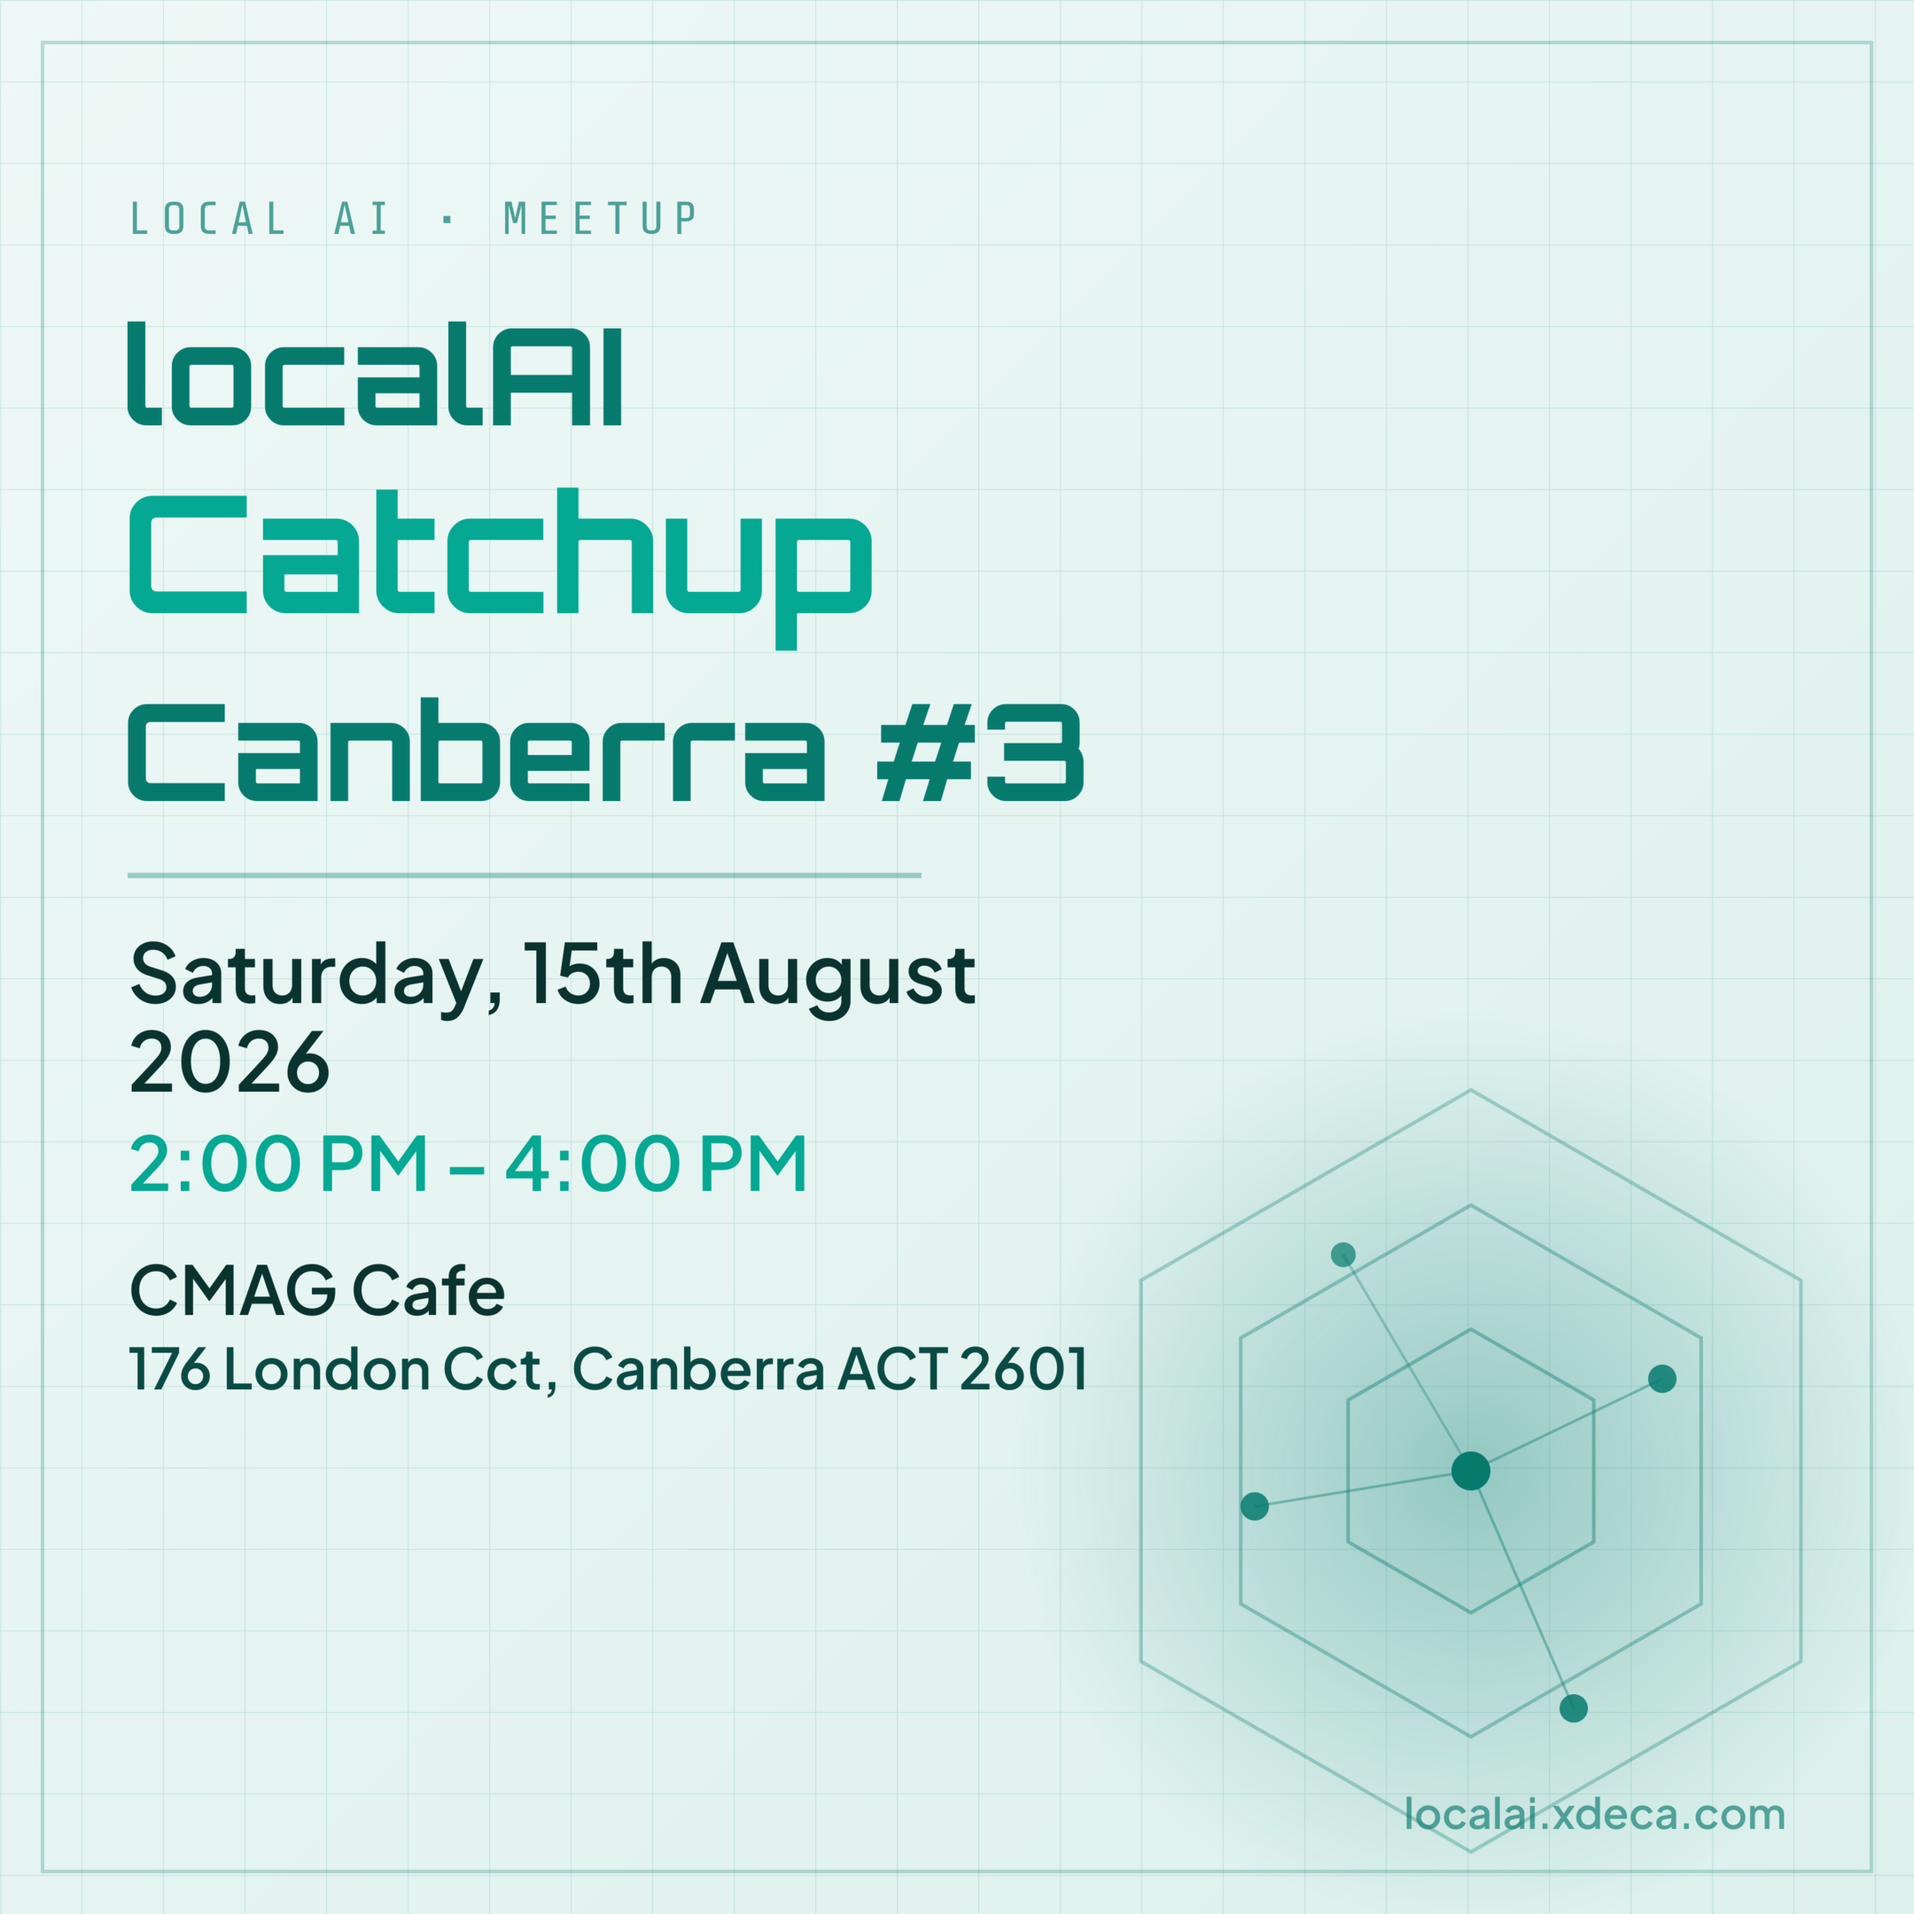
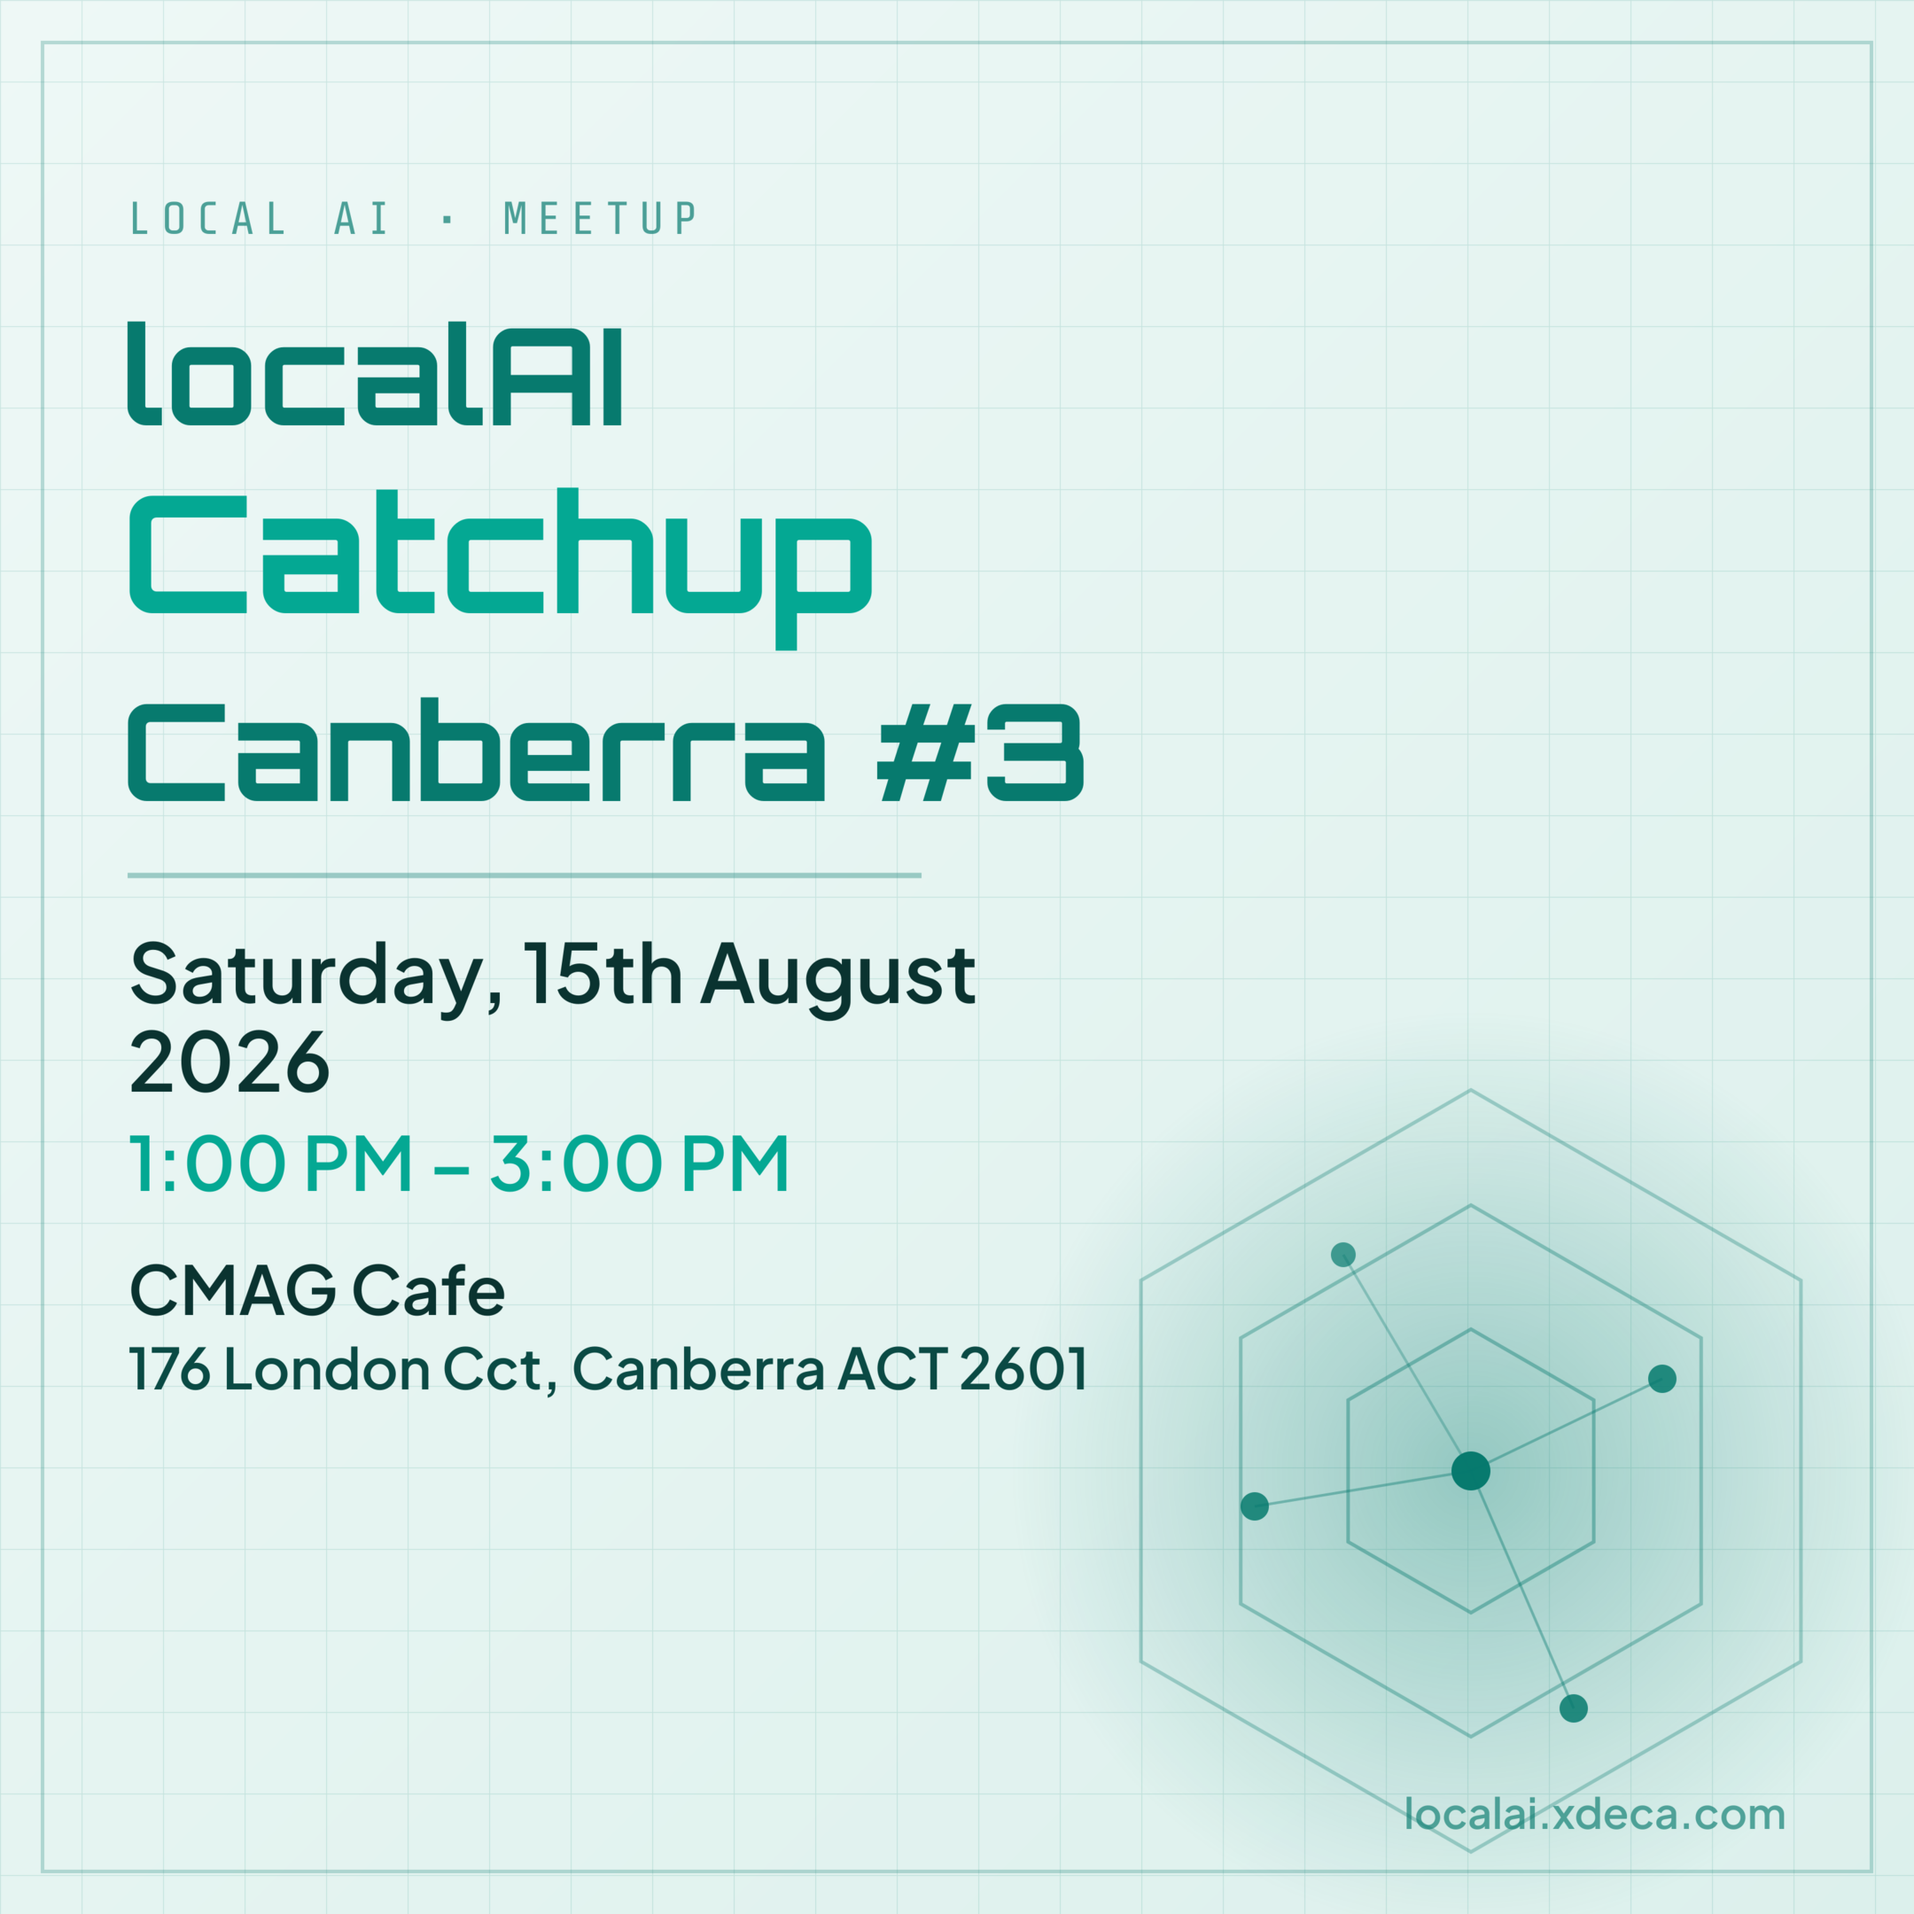
Updates Canberra August 15th 2026 catchup to 1pm to 3pm

Changed region(s): [[0.062, 0.5894, 0.4343, 0.6204]]

diff --git a/src/events/localai-catchup-canberra-aug15.md b/src/events/localai-catchup-canberra-aug15.md
@@ -2,8 +2,8 @@
 title: "localAI Catchup - Canberra #3"
 description: A laid-back discussion on running AI locally in Canberra, hear what others are working on and share your own perspective.
 eventDate: 2026-08-15
-startTime: 2:00 PM
-endTime: 4:00 PM
+startTime: 1:00 PM
+endTime: 3:00 PM
 location: "CMAG Cafe\n176 London Cct, Canberra ACT 2601"
 image: /assets/images/events/localai-catchup-canberra-aug15.svg
 ogImage: /assets/images/events/localai-catchup-canberra-aug15.png
